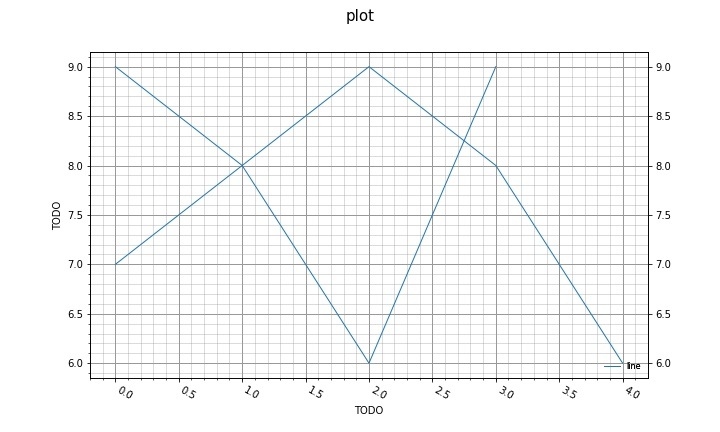
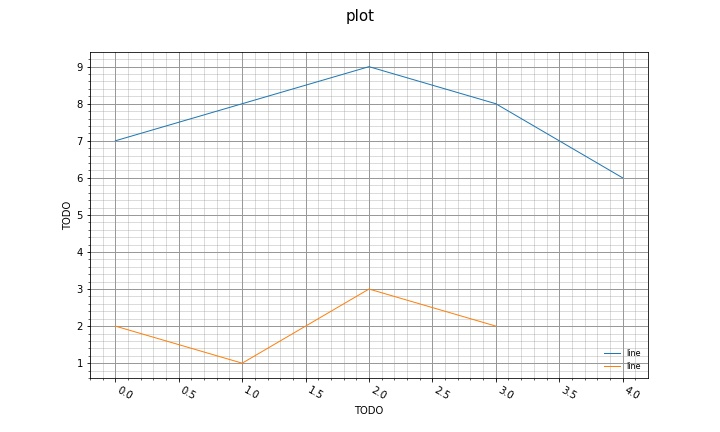
DOCS: negative operator for overlaying plots with no shared y axis

Changed region(s): [[0.0611, 0.1204, 0.9472, 0.8727]]

diff --git a/README.md b/README.md
@@ -34,7 +34,7 @@ from plot import lineplot
 a = lineplot([7,8,9,8,6])
 b = lineplot([9,8,6,9])
 
-# overlay the individual plots
+# overlay the individual plots (sharing the same y axis)
 overlay = a+b
 
 # plots the overlayed plot using the default rendering engine (matplotlib)
@@ -42,6 +42,16 @@ overlay.compile()
 ```
 
 ![image](imgs/overlay_example.jpg)
+
+```py
+# overlay plots, with independent y axes
+overlay = a+-b
+
+# plots the overlayed plot using the default rendering engine (matplotlib)
+overlay.compile()
+```
+
+![image](imgs/overlay_example_independent_y.jpg)
 
 
 ## Contributing
